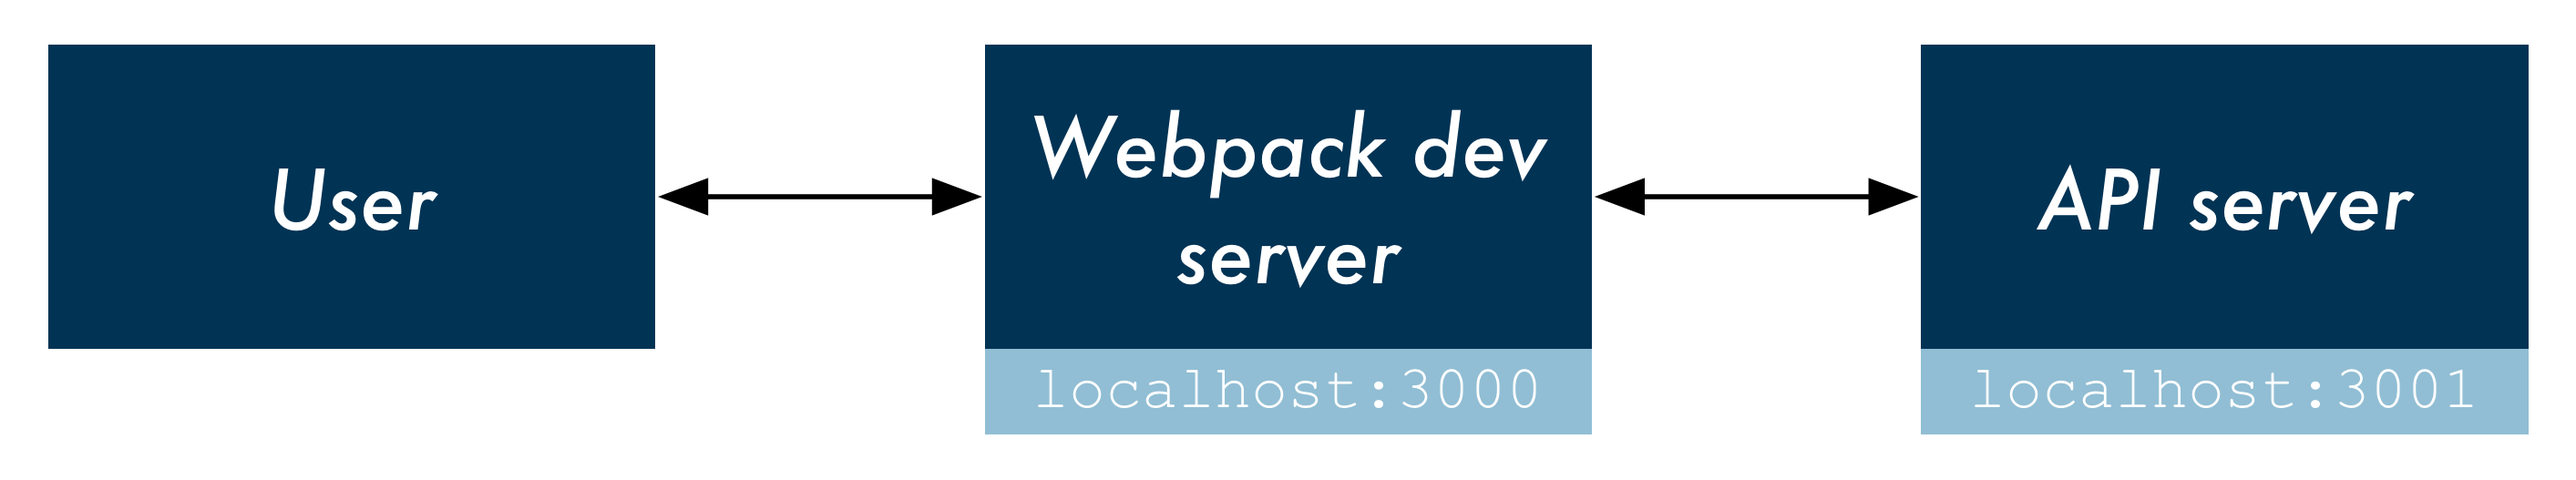
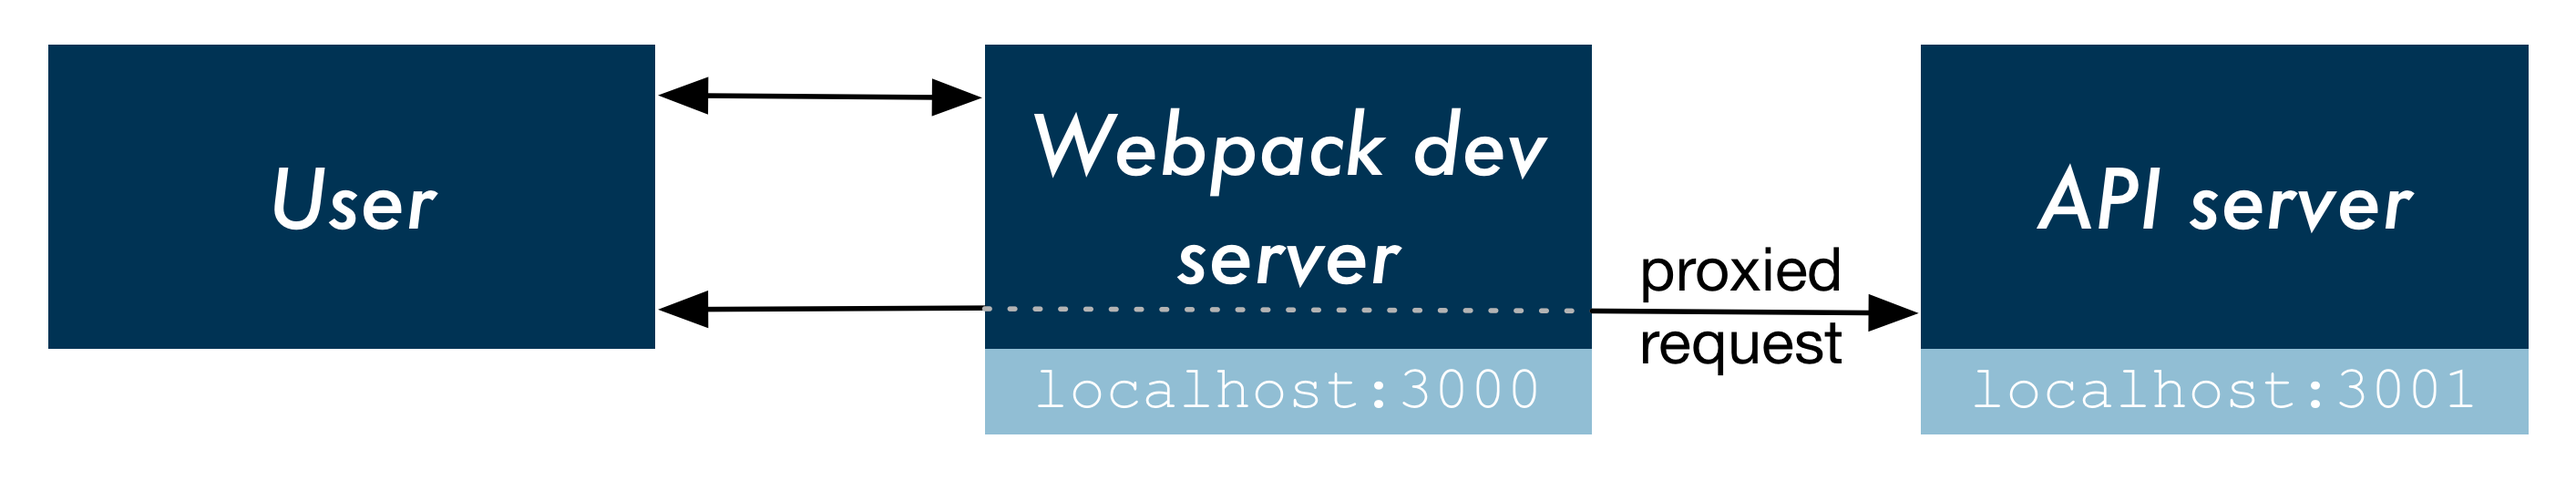
Add better image and description to documentation

diff --git a/README.md b/README.md
@@ -22,7 +22,7 @@ npm start
 
 `rottnote` configures a Webpack development server to run on `localhost:3000`. This development server will bundle all static assets located under `client/src/`. All requests to `localhost:3000` will serve `client/index.html` which will include Webpack's `bundle.js`.
 
-In this example, the React component `App` makes a request to an API server (`server.js`). The user's browser visits the Webpack dev server at `localhost:3000`. Then the React client communicates with the API server when needed at `localhost:3001`:
+The development environment setup has two web servers, the Webpack dev server (which serves static content) at `localhost:3000` and the rottnote API server (which provides the /notes REST API endpoint) at `localhost:3001`. To avoid CORS issues, the Webpack development server proxies requests intended to the API server, like this:
 
 ![Flow diagram](./flow-diagram.png)
 
